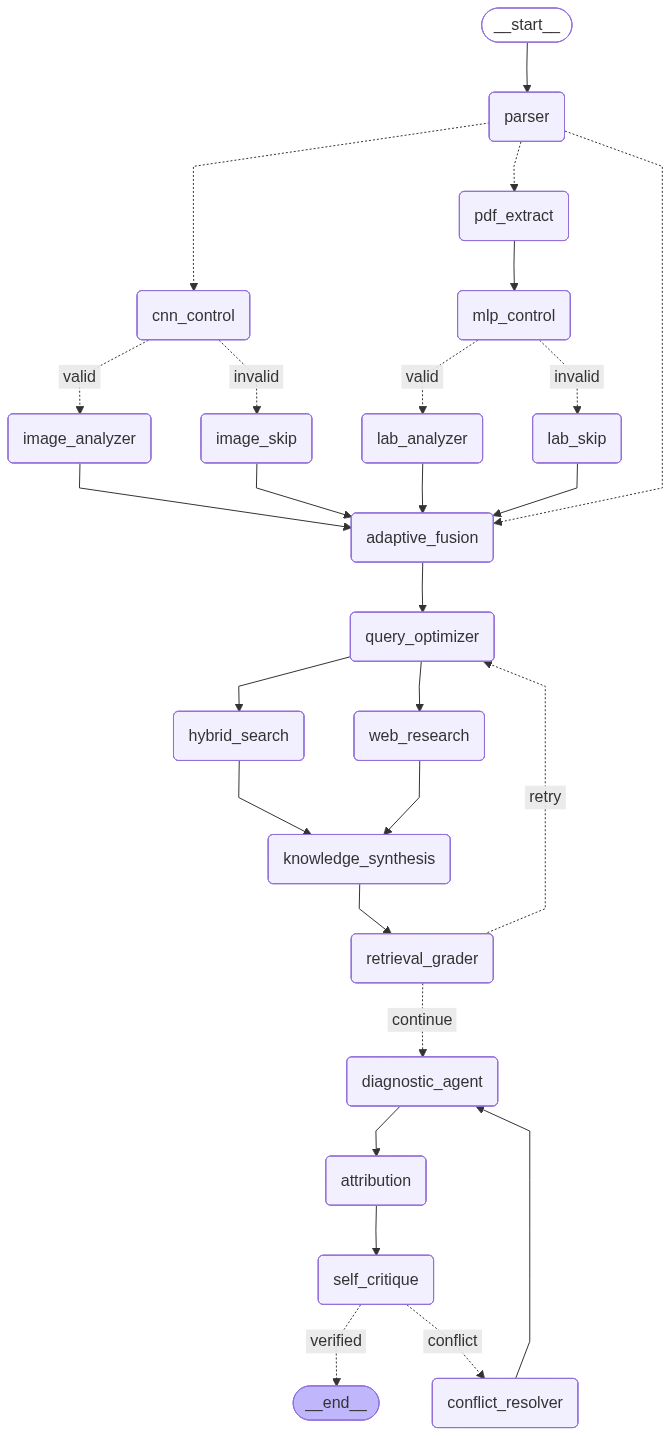
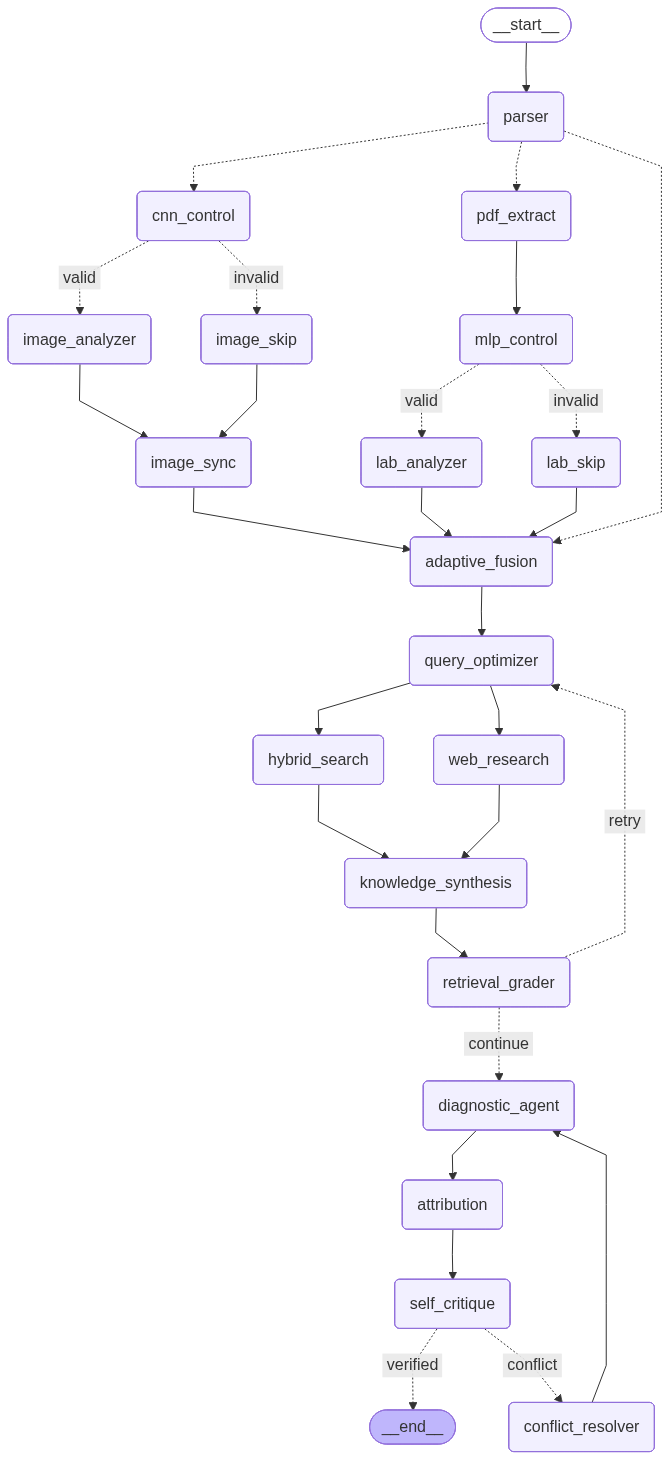
synchronize parallel branches to prevent double execution in fusion - Added a dummy image_sync_node to the CNN control branch. - Resolved the LangGraph superstep mismatch where the image processing branch (shorter depth) and the lab processing branch (longer depth) triggered the daptive_fusion_node 

diff --git a/src/graph/workflow.py b/src/graph/workflow.py
@@ -10,6 +10,17 @@ from src.graph.enum.node_names import NodeNames
 
 logger = logging.getLogger(__name__)
 
+# =========================================================================
+# ⏱ ZAMAN BÜKÜCÜ (SAHTE DÜĞÜM)
+# =========================================================================
+def image_sync_node(state: GraphState):
+    """
+    SAHTE DÜĞÜM (DUMMY NODE)
+    Amacı: Görüntü dalının adım sayısını (superstep), Lab dalının (PDF_EXTRACT yüzünden uzayan) 
+    adım sayısıyla eşitlemektir. Hiçbir veriyi değiştirmez, sadece 1 adım oyalar.
+    """
+    return {}
+
 # --- YÖNLENDİRME MANTIKLARI (ROUTERS) ---
 
 def parser_dynamic_router(state: GraphState) -> List[str]:
@@ -108,6 +119,9 @@ workflow.add_node(NodeNames.MLP_CONTROL.value, lab_gatekeeper_node)
 workflow.add_node(NodeNames.LAB_ANALYZER.value, lab_analyzer_node)
 workflow.add_node(NodeNames.LAB_SKIP.value, lab_skip_node)
 
+# --- SAHTE DÜĞÜMÜ EKLEDİK ---
+workflow.add_node("image_sync", image_sync_node)
+
 workflow.add_node(NodeNames.ADAPTIVE_FUSION.value, adaptive_fusion_node)
 workflow.add_node(NodeNames.DIAGNOSTIC_AGENT.value, diagnostic_agent_node)
 workflow.add_node(NodeNames.ATTRIBUTION.value, attribution_node)
@@ -129,14 +143,22 @@ workflow.add_conditional_edges(
     }
 )
 
-# 2. GÖRÜNTÜ (CNN) DALI
+# =========================================================================
+# 🥇 2. GÖRÜNTÜ (CNN) DALI - SENKRONİZASYON (DOUBLE EXECUTION ÇÖZÜMÜ)
+# =========================================================================
 workflow.add_conditional_edges(
     NodeNames.CNN_CONTROL.value,
     image_gate_logic,
     {"valid": NodeNames.IMAGE_ANALYZER.value, "invalid": NodeNames.IMAGE_SKIP.value}
 )
-workflow.add_edge(NodeNames.IMAGE_ANALYZER.value, NodeNames.ADAPTIVE_FUSION.value)
-workflow.add_edge(NodeNames.IMAGE_SKIP.value, NodeNames.ADAPTIVE_FUSION.value)
+
+# DÜZELTME: Doğrudan Fusion'a gitmek yerine önce Sahte Düğüme uğrar (Zaman kazanmak için).
+workflow.add_edge(NodeNames.IMAGE_ANALYZER.value, "image_sync")
+workflow.add_edge(NodeNames.IMAGE_SKIP.value, "image_sync")
+
+# Sahte düğümden çıkıp Fusion'a girer (Böylece Lab dalı ile tam aynı anda kapıya varmış olur).
+workflow.add_edge("image_sync", NodeNames.ADAPTIVE_FUSION.value)
+# =========================================================================
 
 # 3. LABORATUVAR (MLP) DALI
 workflow.add_edge(NodeNames.PDF_EXTRACT.value, NodeNames.MLP_CONTROL.value)
@@ -148,13 +170,7 @@ workflow.add_conditional_edges(
 workflow.add_edge(NodeNames.LAB_ANALYZER.value, NodeNames.ADAPTIVE_FUSION.value)
 workflow.add_edge(NodeNames.LAB_SKIP.value, NodeNames.ADAPTIVE_FUSION.value)
 
-# =========================================================================
-# 🥇 MİMARİ DEĞİŞİKLİĞİN KALBİ BURASI (SEQUENTIAL REASONING)
-# =========================================================================
-
 # 4. ADAPTIVE FUSION ÇIKIŞI -> RAG (QUERY OPTIMIZER)
-# Modellerin bulduğu anormallikleri (Diyabet, Zatürre vb.) sentezledik. 
-# Şimdi bu zengin sentezi literatürde araştırmak üzere Query Optimizer'a gönderiyoruz!
 workflow.add_edge(NodeNames.ADAPTIVE_FUSION.value, NodeNames.QUERY_OPTIMIZER.value)
 
 # 5. RAG (ARAŞTIRMA) DALI
@@ -165,17 +181,14 @@ workflow.add_edge(NodeNames.WEB_RESEARCH.value, NodeNames.KNOWLEDGE_SYNTHESIS.va
 workflow.add_edge(NodeNames.KNOWLEDGE_SYNTHESIS.value, NodeNames.RETRIEVAL_GRADER.value)
 
 # 6. RAG ÇIKIŞI -> DİAGNOSTİK AGENT (BAŞHEKİM)
-# Arama bitti, elde edilen bilimsel makaleler ve tüm anormallikler Başhekime sunuluyor!
 workflow.add_conditional_edges(
     NodeNames.RETRIEVAL_GRADER.value,
     retrieval_quality_logic,
     {
         "retry": NodeNames.QUERY_OPTIMIZER.value, 
-        "continue": NodeNames.DIAGNOSTIC_AGENT.value # Eskiden Fusion'a gidiyordu, şimdi Başhekime!
+        "continue": NodeNames.DIAGNOSTIC_AGENT.value 
     }
 )
-
-# =========================================================================
 
 # 7. RAPORLAMA VE DENETİM (SELF-CRITIQUE) DALI
 workflow.add_edge(NodeNames.DIAGNOSTIC_AGENT.value, NodeNames.ATTRIBUTION.value)

diff --git a/src/graph/nodes.py b/src/graph/nodes.py
@@ -81,6 +81,14 @@ def image_analyzer_node(state: GraphState):
     """CNN analizi ve Grad-CAM üretimini yapar."""
     return image_analyzer_service(state=state)
 
+def image_sync_node(state: GraphState):
+    """
+    SAHTE DÜĞÜM (DUMMY NODE)
+    Amacı: Görüntü dalının adım sayısını (superstep), Lab dalının adım sayısıyla eşitlemektir.
+    Hiçbir veriyi değiştirmez, sadece LangGraph'ı senkronize etmek için 1 adım oyalar.
+    """
+    return {}
+
 def image_skip_node(state: GraphState):
     """Görüntü (Röntgen, MR vb.) yoksa veya geçersizse CNN analizini güvenlice pas geçer."""
     print("\n⏭ [IMAGE SKIP] Geçerli bir medikal görüntü (Röntgen/MR/OCT) bulunamadı, Görüntü Uzmanları (CNN) atlanıyor...")
@@ -102,6 +110,8 @@ def document_loader_node(state: GraphState):
     print("\n📄 [DOCUMENT LOADER] Tahlil PDF'i sisteme yükleniyor ve metne çevriliyor...")
         
     return document_loader_service(state=state)
+
+
 
 def lab_gatekeeper_node(state: GraphState):
     """Lab verisi tutarlılığını kontrol eder."""
